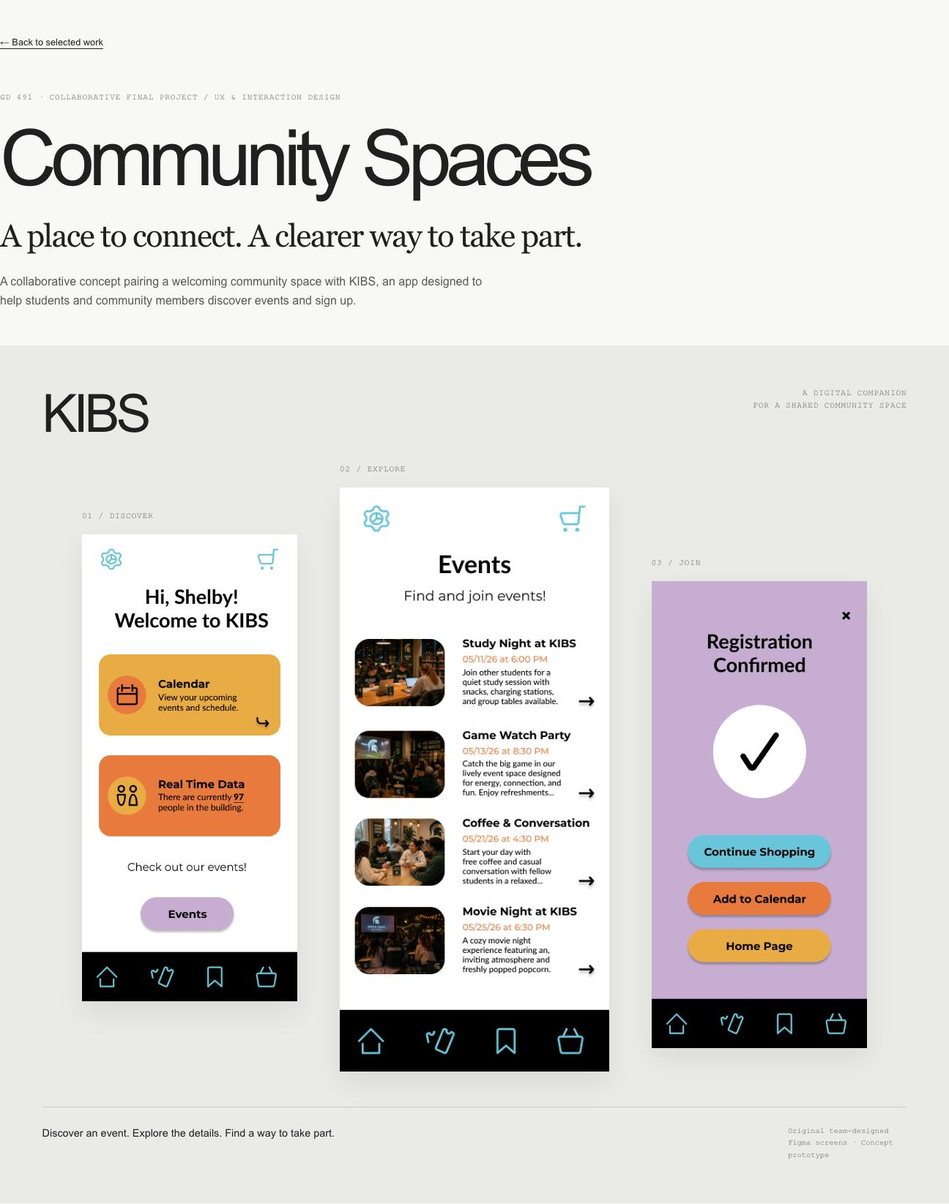
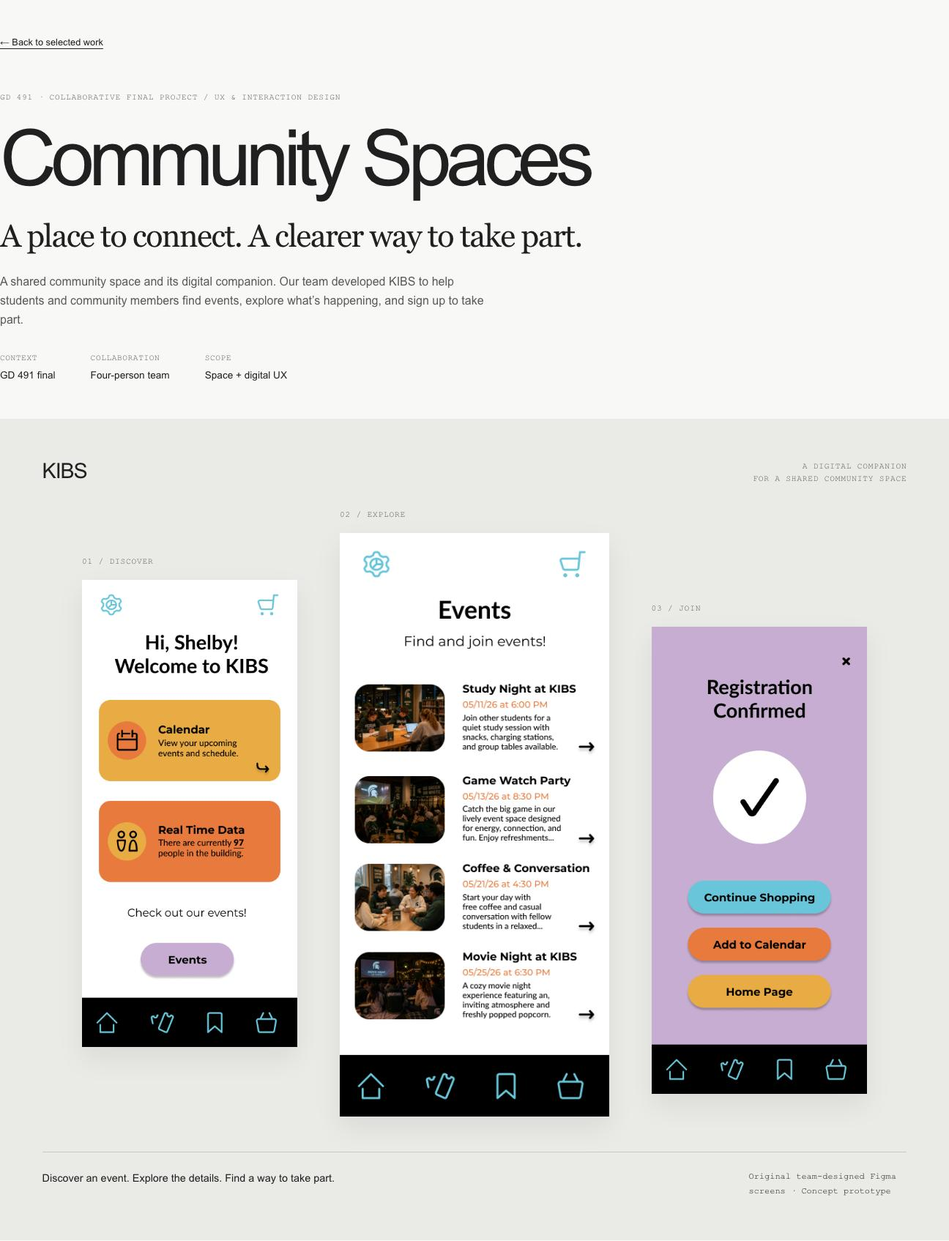
refine: develop the complete Community Spaces case study

diff --git a/tests/browser/community-spaces.spec.ts b/tests/browser/community-spaces.spec.ts
@@ -12,11 +12,14 @@ test('homepage feature leads to the source-backed collaborative review case stud
   await expect(page.getByRole('heading', { level: 1 })).toHaveText('Community Spaces');
   await expect(page.locator('meta[name="robots"]')).toHaveAttribute('content', 'noindex, nofollow');
   await expect(page.locator('.project-metadata')).toContainText('Katelyn Jewett, Illiana Gonzalez, Boran Erdogan, Suleyman Koncagul');
-  await expect(page.locator('.project-metadata')).toContainText('Shared research');
+  await expect(page.locator('.project-metadata')).toContainText('shared across the team');
   await expect(page.locator('#research')).toContainText('approximately 9 out of 12');
   await expect(page.locator('#research')).toContainText('findings reported in the class materials');
   await expect(page.locator('#outcomes')).toContainText('do not establish a public launch');
   await expect(page.locator('#next-steps')).toContainText('proposed tasks, not completed tests');
+  await expect(page.locator('#problem-definition')).toContainText('design challenge');
+  await expect(page.locator('#physical-digital img')).toBeAttached();
+  await expect(page.locator('#reflection')).toContainText('interpretation', { ignoreCase: true });
   await expect(page.locator('body')).not.toContainText('www.figma.com/api/mcp/asset');
   expect((await request.get(path)).status()).toBe(200);
   expect((await request.get('/work/pure-michigan/')).status()).toBe(404);
@@ -43,19 +46,19 @@ test('case-study anchors, keyboard skip link, and return navigation work', async
 test('authentic image exports load with meaningful descriptions and intact proportions', async ({ page, request }) => {
   await page.goto(path);
   const images = page.locator('main img');
-  await expect(images).toHaveCount(10);
+  await expect(images).toHaveCount(11);
   for (const img of await images.all()) {
     await img.scrollIntoViewIfNeeded();
     await expect(img).toHaveJSProperty('complete', true);
-    await expect(img).toHaveAttribute('alt', /Community Spaces|Grayscale|Team task-flow|Hand-drawn/);
+    await expect(img).toHaveAttribute('alt', /Community Spaces|Grayscale|Team task-flow|Hand-drawn|Original collage/);
     expect(await img.evaluate((node: HTMLImageElement) => node.naturalWidth > 0 && Math.abs(node.getBoundingClientRect().width / node.getBoundingClientRect().height - node.naturalWidth / node.naturalHeight) < .01)).toBe(true);
     const src = await img.getAttribute('src');
-    expect(src).toMatch(/^\/_astro\/.+\.png$/);
+    expect(src).toMatch(/^\/_astro\/.+\.(png|webp)$/);
     const response = await request.get(src!);
     expect(response.status()).toBe(200);
-    expect(response.headers()['content-type']).toContain('image/png');
+    expect(response.headers()['content-type']).toContain(src!.endsWith('.webp') ? 'image/webp' : 'image/png');
   }
-  await expect(page.locator('.process-content figcaption a')).toHaveCount(7);
+  await expect(page.locator('.process-content figcaption a')).toHaveCount(8);
 });
 
 test('desktop and narrow layouts retain readable figures and comparison without overflow', async ({ page }) => {
@@ -70,6 +73,12 @@ test('desktop and narrow layouts retain readable figures and comparison without 
     await page.evaluate(() => scrollTo(0, 0));
     if (width === 390 || width === 1440) {
       await page.screenshot({ path: `test-results/community-${width}.png`, fullPage: true });
+      await page.screenshot({ path: `test-results/community-full-${width}.jpg`, fullPage: true, quality: 40 });
+      const height = await page.evaluate(() => document.documentElement.scrollHeight);
+      const stripHeight = width === 1440 ? 1200 : 2000;
+      for (let y = 0, part = 1; y < height; y += stripHeight, part++) {
+        await page.screenshot({ path: `test-results/community-full-${width}-part-${String(part).padStart(2, '0')}.jpg`, clip: { x: 0, y, width, height: Math.min(stripHeight, height - y) }, fullPage: true, quality: 60 });
+      }
       await page.screenshot({ path: `test-results/community-cover-${width}.jpg`, quality: 80 });
       await page.locator('.case-intro').screenshot({ path: `test-results/community-hero-${width}.jpg`, quality: 75 });
       await page.locator('.design-comparison').screenshot({ path: `test-results/community-comparison-${width}.jpg`, quality: 80 });

diff --git a/src/styles/case-study.css b/src/styles/case-study.css
@@ -18,7 +18,7 @@
 .screen-sequence { display: grid; grid-template-columns: repeat(3, minmax(0, 1fr)); align-items: start; gap: clamp(1rem, 3vw, 3rem); }
 .hero-showcase { margin: 0; padding: clamp(1.5rem, 4vw, 4rem); background: var(--artifact-mat); }
 .showcase-heading { display: flex; justify-content: space-between; align-items: start; gap: 2rem; margin-bottom: 2rem; }
-.showcase-wordmark { font-size: clamp(2.5rem, 5vw, 5rem); letter-spacing: -.07em; line-height: 1; }
+.showcase-wordmark { font-size: clamp(1.25rem, 2vw, 2rem); letter-spacing: -.04em; line-height: 1; }
 .showcase-heading .micro { color: var(--muted); text-align: right; }
 .showcase-screens { display: grid; grid-template-columns: .8fr 1fr .8fr; align-items: start; gap: clamp(1.25rem, 4vw, 4rem); max-width: 67rem; margin-inline: auto; }
 .showcase-screen { min-width: 0; }
@@ -27,7 +27,11 @@
 .showcase-discover { padding-top: 4rem; }
 .showcase-join { padding-top: 8rem; }
 .hero-showcase > figcaption { display: flex; justify-content: space-between; gap: 2rem; border-top: 1px solid var(--rule); padding-top: 1.5rem; margin-top: 3rem; font-size: .9rem; }
-.showcase-source { max-width: 26ch; color: var(--muted); font: .65rem/1.6 'Courier New', monospace; }
+.showcase-source { max-width: 30ch; color: var(--ink); font: .75rem/1.6 'Courier New', monospace; }
+.hero-metadata { display: flex; flex-wrap: wrap; gap: 1.5rem 3rem; margin: 2rem 0 0; }
+.hero-metadata div { display: grid; gap: .25rem; }
+.hero-metadata dt { font: .7rem/1.5 'Courier New', monospace; text-transform: uppercase; letter-spacing: .05em; color: var(--muted); }
+.hero-metadata dd { margin: 0; font-size: .85rem; }
 .project-metadata { display: grid; grid-template-columns: 1fr 1.5fr 2fr 1fr; gap: 2rem; margin: 3rem 0 0; padding-block: 2rem; border-block: 1px solid var(--rule); }
 .project-metadata dt { color: var(--muted); margin-bottom: .75rem; }
 .project-metadata dd { margin: 0; font-size: .85rem; }
@@ -50,8 +54,8 @@
 .artifact-mat img { display: block; width: 100%; height: auto; }
 .artifact-screen .artifact-mat { padding: 0; background: none; }
 .artifact-screen .artifact-mat img { max-width: 393px; margin-inline: auto; }
-.artifact-figure figcaption { display: grid; gap: .4rem; color: var(--muted); margin-top: .75rem; font-size: .75rem; line-height: 1.5; }
-.artifact-source { font-family: 'Courier New', monospace; font-size: .65rem; }
+.artifact-figure figcaption { display: grid; gap: .5rem; color: var(--ink); margin-top: .85rem; font-size: .85rem; line-height: 1.6; }
+.artifact-source { font-family: 'Courier New', monospace; font-size: .75rem; color: var(--muted); }
 .artifact-figure figcaption a { width: fit-content; padding-block: .3rem; }
 .design-comparison { display: grid; grid-template-columns: repeat(2, minmax(0, 1fr)); gap: 2rem; }
 .design-comparison h3 { font: .75rem/1.5 'Courier New', monospace; margin-bottom: 1rem; }
@@ -79,13 +83,13 @@
   .case-hero h1 { font-size: clamp(2.6rem, 12vw, 4rem); overflow-wrap: normal; }
   .project-metadata { grid-template-columns: 1fr; gap: 1.5rem; margin-top: 2rem; }
   .showcase-heading { margin-bottom: 2rem; gap: 1rem; }
-  .showcase-heading .micro { font-size: .55rem; }
+  .showcase-heading .micro { font-size: .65rem; }
   .showcase-screens { grid-template-columns: repeat(2, minmax(0, 1fr)); gap: 1.5rem 1rem; }
   .showcase-explore { grid-column: 1 / -1; grid-row: 1; width: min(82%, 280px); justify-self: center; }
   .showcase-discover, .showcase-join { padding-top: 0; }
   .showcase-discover { grid-row: 2; grid-column: 1; }
   .showcase-join { grid-row: 2; grid-column: 2; }
-  .showcase-screen > .micro { font-size: .55rem; margin-bottom: .6rem; }
+  .showcase-screen > .micro { font-size: .65rem; margin-bottom: .6rem; }
   .hero-showcase > figcaption { flex-direction: column; gap: .75rem; margin-top: 2rem; font-size: .85rem; }
   .showcase-source { max-width: none; }
   .process-content > .screen-sequence { grid-template-columns: 1fr; gap: 2rem; }

diff --git a/src/data/community-spaces-assets.ts b/src/data/community-spaces-assets.ts
@@ -4,8 +4,10 @@ import confirmation from '../assets/community-spaces/confirmation-hi-fi.png';
 import midEvents from '../assets/community-spaces/events-mid-fi.png';
 import flow from '../assets/community-spaces/task-flow.png';
 import sketch from '../assets/community-spaces/lo-fi-sketch.png';
+import space from '../assets/community-spaces/space-sketches.webp';
 
 export const communityAssets = {
+  space: { image: space, alt: 'Original collage of Katelyn, Illiana, Boran, and Suleyman’s physical-space sketches, exploring study seating, shared event areas, a stage, market, and outdoor gathering spaces.', caption: 'Four teammates, a shared brief. Original spatial explorations preserved together as presented in class.', source: 'Final class presentation · page 10' },
   home: { image: home, alt: 'Community Spaces prototype home screen with a calendar, illustrative occupancy count, Events button, and bottom navigation.', caption: 'Home / high fidelity. All counts and names are illustrative prototype content.', source: 'Figma · Home Page · 212:109' },
   events: { image: events, alt: 'High-fidelity Community Spaces Events screen showing study, game, coffee, and movie event entries with images, dates, descriptions, and detail arrows.', caption: 'Events / high fidelity. Event details are sample interface content.', source: 'Figma · Events Page · 214:237' },
   confirmation: { image: confirmation, alt: 'Community Spaces registration confirmation concept with a checkmark and Continue Shopping, Add to Calendar, and Home Page actions.', caption: 'Confirmation / high fidelity. A designed state, not a record of a real registration.', source: 'Figma · Confirmation Page · 214:4' },

diff --git a/src/lib/project-schema.ts b/src/lib/project-schema.ts
@@ -23,6 +23,7 @@ export const projectSchema = z.object({
   caseStudy: z.object({
     slug: z.string().regex(/^[a-z0-9]+(?:-[a-z0-9]+)*$/),
     headline: z.string().min(1),
+    introduction: z.string().min(1),
     context: z.string().min(1),
     role: z.string().min(1),
     team: z.array(z.string().min(1)).min(1),
@@ -33,7 +34,7 @@ export const projectSchema = z.object({
       paragraphs: z.array(z.string().min(1)).min(1),
       points: z.array(z.string().min(1)).default([]),
       sourceNote: z.string().min(1),
-      media: z.enum(['flow', 'sketch', 'comparison', 'screens']).optional(),
+      media: z.enum(['flow', 'sketch', 'space', 'comparison', 'screens']).optional(),
     })).min(1),
   }).optional(),
   evidence: z.array(evidenceSchema),

diff --git a/tests/content.test.ts b/tests/content.test.ts
@@ -47,7 +47,7 @@ test('duplicate evidence IDs are rejected', () => {
 test('Community Spaces originals match provenance hashes and durable source references', () => {
   const manifest = JSON.parse(readFileSync('docs/community-spaces-assets.json', 'utf8'));
   const assets = Object.entries(manifest.assets) as [string, { sha256: string; source: object }][];
-  assert.equal(assets.length, 6);
+  assert.equal(assets.length, 7);
   for (const [path, entry] of assets) {
     assert.equal(createHash('sha256').update(readFileSync(path)).digest('hex'), entry.sha256);
     assert.ok(!JSON.stringify(entry.source).includes('/api/mcp/asset/'));

diff --git a/src/content/projects/community-spaces.md b/src/content/projects/community-spaces.md
@@ -46,8 +46,9 @@ claims:
 caseStudy:
   slug: community-spaces
   headline: A place to connect. A clearer way to take part.
+  introduction: A shared community space and its digital companion. Our team developed KIBS to help students and community members find events, explore what’s happening, and sign up to take part.
   context: GD 491 · Collaborative final project
-  role: Shared research, concept development, interaction design, and presentation work across the team. No separate lead role is claimed.
+  role: Research, concept development, interaction design, and presentation — shared across the team.
   team: [Katelyn Jewett, Illiana Gonzalez, Boran Erdogan, Suleyman Koncagul]
   sections:
     - id: context
@@ -68,8 +69,28 @@ caseStudy:
         - Digital need — see event availability on specific dates and find an event to attend.
         - Design intent — make participation welcoming and information easier to access.
       sourceNote: Final presentation, research on page 3 and user needs on page 4; corroborating team need statements in Figma. No new interviews or research results are claimed here.
+    - id: problem-definition
+      kicker: 03 / Problem definition
+      title: Connect the desire to gather with a way to participate.
+      paragraphs:
+        - The team's need statements brought two related goals together. Students and community members needed a place to study while building relationships, and a way to see which events were available on dates that suited them.
+        - The digital design challenge became specific — help someone understand what is happening, choose an event, and complete signup. The physical concept addressed the setting for those activities; the app addressed finding and joining them.
+      points:
+        - People — students and community members, rather than students alone.
+        - Information — event details, dates, availability, and requirements before committing.
+        - Participation — a path from browsing to a clear confirmation state.
+      sourceNote: Editorial synthesis of the team's need/concept statements and task definition, presentation pages 2, 4, and 8. These are design goals, not demonstrated effects.
+    - id: physical-digital
+      kicker: 04 / Physical + digital concept
+      title: Design the place and the invitation together.
+      paragraphs:
+        - The spatial concept combined study and event areas, with comfort and social connection as guiding intentions. The original sketch collage shows different teammates exploring seating, shared activities, a stage, market functions, and outdoor gathering areas.
+        - KIBS was the digital companion — a way to see events, inspect details, and reserve a place. The prototype also explores calendar, occupancy, history, and market-related destinations. These remain concept features, not operating services.
+        - The relationship matters — an event interface needs to communicate what someone can expect from the place, while the physical setting needs to support the activities being offered. The sketches and app frames document that shared exploration without establishing that the space was built.
+      media: space
+      sourceNote: Original team spatial-sketch collage from presentation page 10; physical-space intentions on pages 6 and 16, and digital concept/task statements on pages 2, 4, and 8.
     - id: task-flow
-      kicker: 03 / Information architecture
+      kicker: 05 / Task flow
       title: From discovering an event to confirming a place.
       paragraphs:
         - The team's task flow centered on finding an event and signing up. After login and home, the main path moves through the event list, event details, signup, a double-check step, and confirmation. History, the market, and the shopping cart appear as adjacent destinations.
@@ -77,7 +98,7 @@ caseStudy:
       media: flow
       sourceNote: Original task-flow image extracted from the final presentation, page 8. The text above provides the diagram's main path without requiring readers to decipher the image.
     - id: exploration
-      kicker: 04 / Early exploration
+      kicker: 06 / Early exploration
       title: Start with the sequence, then shape the screens.
       paragraphs:
         - The presentation includes hand-drawn sketches of the space and the digital flow. The sketch shown here connects login, home, events, signup, and confirmation before visual styling is added.
@@ -85,7 +106,7 @@ caseStudy:
       media: sketch
       sourceNote: Authentic sketch extracted from the final presentation, page 11. It is presented as team work, without assigning individual authorship.
     - id: design-development
-      kicker: 05 / Design development
+      kicker: 07 / Design evolution
       title: From grayscale structure to a colorful invitation.
       paragraphs:
         - The mid-fidelity event list establishes repeated event entries and navigation. The later high-fidelity version adds event imagery, stronger visual contrast, and the team's color palette. Both retain event browsing as a central task.
@@ -93,22 +114,35 @@ caseStudy:
       media: comparison
       sourceNote: Original Events Page frames from the supplied Figma file, nodes 1:5 and 214:237. Design-stage order is supported by the presentation, pages 12–14; color intent appears on page 9.
     - id: prototype
-      kicker: 06 / Prototype
-      title: Discover, choose, and confirm.
+      kicker: 08 / Final deliverables
+      title: A connected set of prototype touchpoints.
       paragraphs:
         - The high-fidelity home screen introduces the calendar and an event entry point. The event list provides descriptions and dates. The confirmation screen offers actions to return home, continue browsing, or add an event to a calendar.
         - These are authentic prototype screens. Names, dates, building occupancy, and availability shown inside them are illustrative interface content, not evidence of live events, a deployed system, or observed outcomes.
+      points:
+        - A physical-space concept supported by team sketches and a final presentation.
+        - User-need and concept statements connecting study, social connection, and event discovery.
+        - A task flow and design progression from sketches through mid-fidelity and high-fidelity wireframes.
+        - Prototype screens covering home, event browsing, event details, reservation, a double-check step, and confirmation.
       media: screens
       sourceNote: Supplied Figma frames 212:109 (Home Page), 214:237 (Events Page), and 214:4 (Confirmation Page).
     - id: outcomes
-      kicker: 07 / Outcome and limits
+      kicker: 09 / Outcome and limits
       title: A developed concept. Validation is still ahead.
       paragraphs:
         - The available work includes need statements, a task flow, sketches, wireframes, a high-fidelity prototype, and a final class presentation. Together they show how the team developed a connected physical and digital concept.
         - The materials do not establish a public launch or usability testing that demonstrated improvements. The presentation's attendance, scholarship, and academic benchmarks are proposed measures, not achieved outcomes. No increase in participation, accessibility, or academic performance is claimed.
       sourceNote: Final presentation, pages 7–16. Artifact completion is distinguished from service impact.
+    - id: reflection
+      kicker: 10 / Reflection
+      title: The connection is the design opportunity.
+      paragraphs:
+        - Read together, the artifacts show more than an event list — they connect a proposed place, activities, and the decisions needed to take part. The task flow provides a useful thread for telling that story from early sketches to final screens.
+        - The next challenge is to examine the assumptions between those screens. An availability label, membership choice, and confirmation message each need to be understood in context. A polished prototype makes those questions tangible, but cannot answer them by itself.
+        - Shared contribution is central to this account. The spatial and digital explorations belong to the four-person team; this portfolio presents that collaboration without assigning a separate lead role or inventing personal learning outcomes.
+      sourceNote: Portfolio reflection on the supplied artifacts and owner-confirmed shared contribution. This is interpretation, not a new research finding or completed evaluation.
     - id: next-steps
-      kicker: 08 / Proposed next steps
+      kicker: 11 / Proposed next steps
       title: Test the path to participation.
       paragraphs:
         - Future evaluation could ask students and community members to find a suitable event, understand its requirements, reserve a place, and interpret confirmation. These are proposed tasks, not completed tests.

diff --git a/docs/COMMUNITY_SPACES.md b/docs/COMMUNITY_SPACES.md
@@ -78,3 +78,13 @@ At the owner's request, replaced the defensive introductory paragraph with a con
 The hero now introduces the work; factual status, shared team contribution, research limits, illustrative prototype data, and proposed testing remain in the metadata and narrative. Review-only/noindex remains intact. No launch or validation claims were added. Updated complete hero desktop/mobile and dark screenshots replace the prior captures at the same review paths above.
 
 Verification after refinement: Astro/TypeScript check (0 errors/warnings/hints), static build, 7 content/provenance tests, and all 13 browser tests passed. Automated accessibility checks and 320/390/768/1440px overflow checks passed; desktop/mobile compositions were visually inspected. No merge or deployment.
+
+## Approved visual direction and full narrative — 2026-10-16
+
+The owner approved the staggered three-screen hero and editorial direction. This refinement keeps those screens unchanged, makes the KIBS label secondary, adds concise Context/Collaboration/Scope metadata, refines the introduction, and increases caption/source readability in both themes. Mobile keeps the Events screen prominent with supporting Home/Confirmation frames below.
+
+The case study now explicitly covers context, reported research, problem definition, the physical/digital relationship, task flow, early exploration, design evolution, final deliverables, outcomes/limits, reflection, and proposed testing. The physical concept is supported by the original four-person sketch collage from presentation page 10, stored as space-sketches.webp (web encoding only, no cropping/redrawing/rearrangement). Its original embedded JPEG hash and local web-asset hash are in the manifest. Six earlier PNGs remain unchanged; there are now seven authentic source assets. Research remains class-reported, contribution shared, and evaluation proposed. Reflection is labeled editorial interpretation, not an invented personal experience or study result.
+
+Full-page review captures: [desktop](previews/community-spaces/full-page/desktop.md) and [mobile](previews/community-spaces/full-page/mobile.md). Each contains consecutive capture strips from top to footer because a single long screenshot exceeds the connector's upload limit. Full-resolution single PNGs are delivered in chat.
+
+Validation: Astro/TypeScript check and static build passed; 7 content/provenance tests passed; all 13 browser behaviors passed after updating the shared-attribution assertion and fixing the screenshot capture bounds. Automated light/dark/mobile accessibility and 320/390/768/1440px overflow checks passed. Full-page and section screenshots were visually reviewed. The browser suite's original assertion expected superseded copy; it was corrected to check the retained shared contribution. Screenshot-strip clipping was a capture setup error, not page overflow. Manual screen-reader and broader browser/device audits remain pending. Nothing merged or deployed.

diff --git a/docs/DECISIONS.md b/docs/DECISIONS.md
@@ -39,3 +39,7 @@ Implementation review is stacked on docs/portfolio-discovery (PR #1), which rema
 ## Community Spaces assignment — 2026-10-16
 
 The owner explicitly requested a dedicated Community Spaces page and large homepage feature using authentic supplied sources. This authorizes `/work/community-spaces/` and its review-only content, not publication of other candidates. Shared team contribution was confirmed by the owner. See COMMUNITY_SPACES.md for sources, validation, and unresolved rights/content issues. Work is on a separate feature branch stacked on PR #2; neither merge nor deployment is authorized. No flagship status is assigned beyond the requested feature.
+
+## Full Community Spaces review — 2026-10-16
+
+Owner approved the staggered hero as visual direction and requested the complete case-study experience. Preserve authentic screen composition/editorial styling; KIBS is a secondary label. Research, problem definition, physical/digital concept, flow, evolution, deliverables, and reflection are now represented with source notes. Full desktop/mobile capture sequences are documented in COMMUNITY_SPACES.md. No production or merge approval is implied.

diff --git a/docs/previews/community-spaces/full-page/desktop.md b/docs/previews/community-spaces/full-page/desktop.md
@@ -1,0 +1,23 @@
+# Full-page desktop review capture
+
+Viewport width: 1440px. Consecutive, unedited browser-capture strips cover the entire page from navigation to footer. Split only to fit the GitHub connector transport limit. The single-image full-resolution capture is also delivered in chat.
+
+![desktop capture 01](community-full-1440-part-01.jpg)
+
+![desktop capture 02](community-full-1440-part-02.jpg)
+
+![desktop capture 03](community-full-1440-part-03.jpg)
+
+![desktop capture 04](community-full-1440-part-04.jpg)
+
+![desktop capture 05](community-full-1440-part-05.jpg)
+
+![desktop capture 06](community-full-1440-part-06.jpg)
+
+![desktop capture 07](community-full-1440-part-07.jpg)
+
+![desktop capture 08](community-full-1440-part-08.jpg)
+
+![desktop capture 09](community-full-1440-part-09.jpg)
+
+![desktop capture 10](community-full-1440-part-10.jpg)

diff --git a/docs/previews/community-spaces/full-page/mobile.md b/docs/previews/community-spaces/full-page/mobile.md
@@ -1,0 +1,21 @@
+# Full-page mobile review capture
+
+Viewport width: 390px. Consecutive, unedited browser-capture strips cover the entire page from navigation to footer. Split only to fit the GitHub connector transport limit. The single-image full-resolution capture is also delivered in chat.
+
+![mobile capture 01](community-full-390-part-01.jpg)
+
+![mobile capture 02](community-full-390-part-02.jpg)
+
+![mobile capture 03](community-full-390-part-03.jpg)
+
+![mobile capture 04](community-full-390-part-04.jpg)
+
+![mobile capture 05](community-full-390-part-05.jpg)
+
+![mobile capture 06](community-full-390-part-06.jpg)
+
+![mobile capture 07](community-full-390-part-07.jpg)
+
+![mobile capture 08](community-full-390-part-08.jpg)
+
+![mobile capture 09](community-full-390-part-09.jpg)
